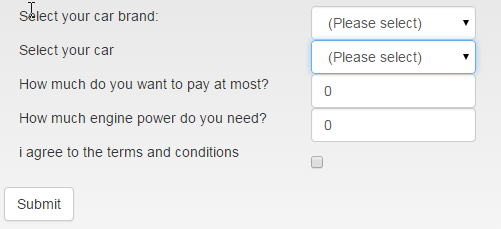
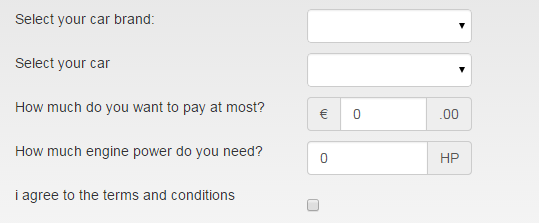
Continued work on AF integration example

diff --git a/web/resources/sh/js/shBrushJScript.js b/web/resources/sh/js/shBrushJScript.js
@@ -1,0 +1,52 @@
+/**
+ * SyntaxHighlighter
+ * http://alexgorbatchev.com/SyntaxHighlighter
+ *
+ * SyntaxHighlighter is donationware. If you are using it, please donate.
+ * http://alexgorbatchev.com/SyntaxHighlighter/donate.html
+ *
+ * @version
+ * 3.0.83 (Wed, 16 Apr 2014 03:56:09 GMT)
+ *
+ * @copyright
+ * Copyright (C) 2004-2013 Alex Gorbatchev.
+ *
+ * @license
+ * Dual licensed under the MIT and GPL licenses.
+ */
+;(function()
+{
+	// CommonJS
+	SyntaxHighlighter = SyntaxHighlighter || (typeof require !== 'undefined'? require('shCore').SyntaxHighlighter : null);
+
+	function Brush()
+	{
+		var keywords =	'break case catch class continue ' +
+				'default delete do else enum export extends false  ' +
+				'for function if implements import in instanceof ' +
+				'interface let new null package private protected ' +
+				'static return super switch ' +
+				'this throw true try typeof var while with yield';
+
+		var r = SyntaxHighlighter.regexLib;
+		
+		this.regexList = [
+			{ regex: r.multiLineDoubleQuotedString,					css: 'string' },			// double quoted strings
+			{ regex: r.multiLineSingleQuotedString,					css: 'string' },			// single quoted strings
+			{ regex: r.singleLineCComments,							css: 'comments' },			// one line comments
+			{ regex: r.multiLineCComments,							css: 'comments' },			// multiline comments
+			{ regex: /\s*#.*/gm,									css: 'preprocessor' },		// preprocessor tags like #region and #endregion
+			{ regex: new RegExp(this.getKeywords(keywords), 'gm'),	css: 'keyword' }			// keywords
+			];
+	
+		this.forHtmlScript(r.scriptScriptTags);
+	};
+
+	Brush.prototype	= new SyntaxHighlighter.Highlighter();
+	Brush.aliases	= ['js', 'jscript', 'javascript', 'json'];
+
+	SyntaxHighlighter.brushes.JScript = Brush;
+
+	// CommonJS
+	typeof(exports) != 'undefined' ? exports.Brush = Brush : null;
+})();

diff --git a/src/java/net/bootsfaces/demo/CarBean.java b/src/java/net/bootsfaces/demo/CarBean.java
@@ -19,6 +19,8 @@ package net.bootsfaces.demo;
 
 import javax.enterprise.context.RequestScoped;
 import javax.faces.bean.ManagedBean;
+import javax.validation.constraints.Max;
+import javax.validation.constraints.Min;
 
 /** A simple bean for demo purposes. */
 @RequestScoped
@@ -30,8 +32,12 @@ public class CarBean {
 
 	private String color;
 
+	@Min(500)
+	@Max(50000)
 	private int price;
 
+	@Min(2)
+	@Max(999)
 	private int enginePower;
 	
 	private boolean iAgreeToTheTermsAndConditions=false;
